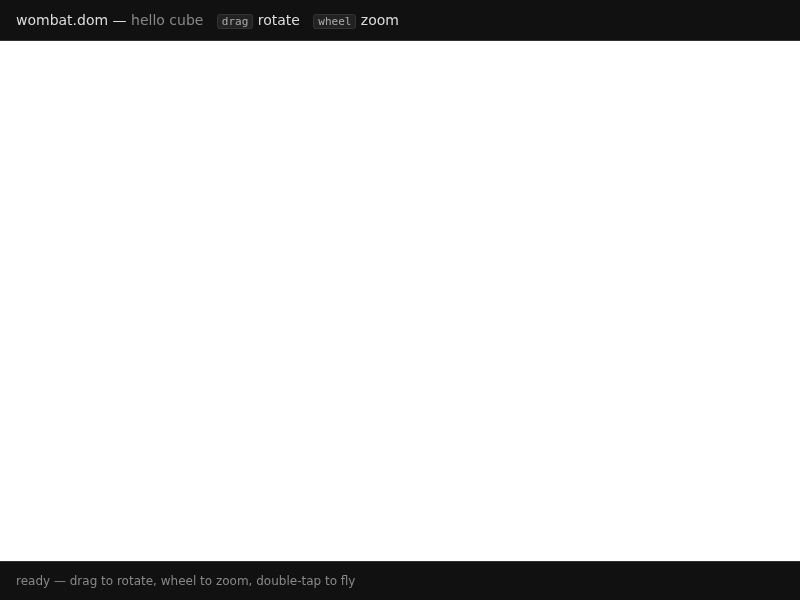
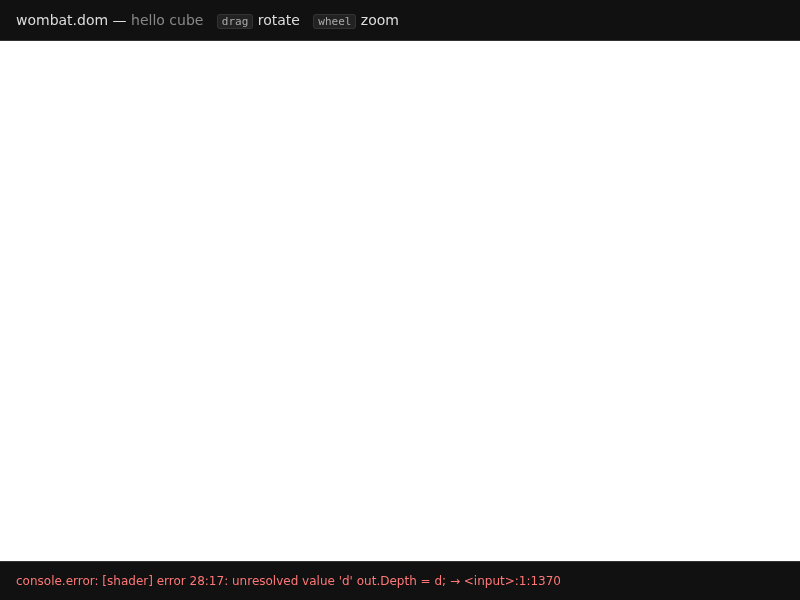
fix pick worldPos: store WebGPU NDC z [0,1] in pickId slot 2
The pickFinal* fragments were storing OpenGL-convention NDC z
(2*z - 1) but the dispatcher's unprojection uses proj.backward
which is built for WebGPU NDC z [0,1]. Result: worldPos was wildly
off — for a hit on the +X face of the unit cube the dispatcher
was reporting (2.47, 1.43, 1.20) instead of the correct point on
the cube surface.

Fix: write fragCoord.z directly. Now a tap on the cube reports
worldPos = (1.0, 0.58, 0.486) — on the +X face, exactly where
the cursor lands. flyTo recentres the orbit on the actual hit.

Also inline `b.fragCoord.z` rather than via a `let d = ...` local;
the optimizer was propagating `d` into one use site (`id` slot 2)
but missing another (`Depth` output) under specific orderings.

Changed region(s): [[0.0, 0.96, 0.7188, 0.99]]

diff --git a/src/scene/picking/pickShaders.ts b/src/scene/picking/pickShaders.ts
@@ -210,9 +210,8 @@ export function pickFinalAEffect(): Effect {
       PickPartIndex: i32;
     }, b: FragmentBuiltinIn): { outColor: V4f; pickId: V4f; Depth: f32 } {
       const n24 = n24Encode(input.ViewSpaceNormal.normalize());
-      const d = 2.0 * b.fragCoord.z - 1.0;
-      const id = new V4f(PickId as f32, n24, d, input.PickPartIndex as f32);
-      return { outColor: input.outColor, pickId: id, Depth: d };
+      const id = new V4f(PickId as f32, n24, b.fragCoord.z, input.PickPartIndex as f32);
+      return { outColor: input.outColor, pickId: id, Depth: b.fragCoord.z };
     }
   `;
 
@@ -239,9 +238,8 @@ export function pickFinalANoPiEffect(): Effect {
       ViewSpaceNormal: V3f;
     }, b: FragmentBuiltinIn): { outColor: V4f; pickId: V4f; Depth: f32 } {
       const n24 = n24Encode(input.ViewSpaceNormal.normalize());
-      const d = 2.0 * b.fragCoord.z - 1.0;
-      const id = new V4f(PickId as f32, n24, d, 0.0);
-      return { outColor: input.outColor, pickId: id, Depth: d };
+      const id = new V4f(PickId as f32, n24, b.fragCoord.z, 0.0);
+      return { outColor: input.outColor, pickId: id, Depth: b.fragCoord.z };
     }
   `;
 
@@ -267,9 +265,8 @@ export function pickFinalANoNormalEffect(): Effect {
       outColor: V4f;
       PickPartIndex: i32;
     }, b: FragmentBuiltinIn): { outColor: V4f; pickId: V4f; Depth: f32 } {
-      const d = 2.0 * b.fragCoord.z - 1.0;
-      const id = new V4f(PickId as f32, 0.0, d, input.PickPartIndex as f32);
-      return { outColor: input.outColor, pickId: id, Depth: d };
+      const id = new V4f(PickId as f32, 0.0, b.fragCoord.z, input.PickPartIndex as f32);
+      return { outColor: input.outColor, pickId: id, Depth: b.fragCoord.z };
     }
   `;
 
@@ -293,9 +290,8 @@ export function pickFinalANoNormalNoPiEffect(): Effect {
     function fsMain(input: {
       outColor: V4f;
     }, b: FragmentBuiltinIn): { outColor: V4f; pickId: V4f; Depth: f32 } {
-      const d = 2.0 * b.fragCoord.z - 1.0;
-      const id = new V4f(PickId as f32, 0.0, d, 0.0);
-      return { outColor: input.outColor, pickId: id, Depth: d };
+      const id = new V4f(PickId as f32, 0.0, b.fragCoord.z, 0.0);
+      return { outColor: input.outColor, pickId: id, Depth: b.fragCoord.z };
     }
   `;
 